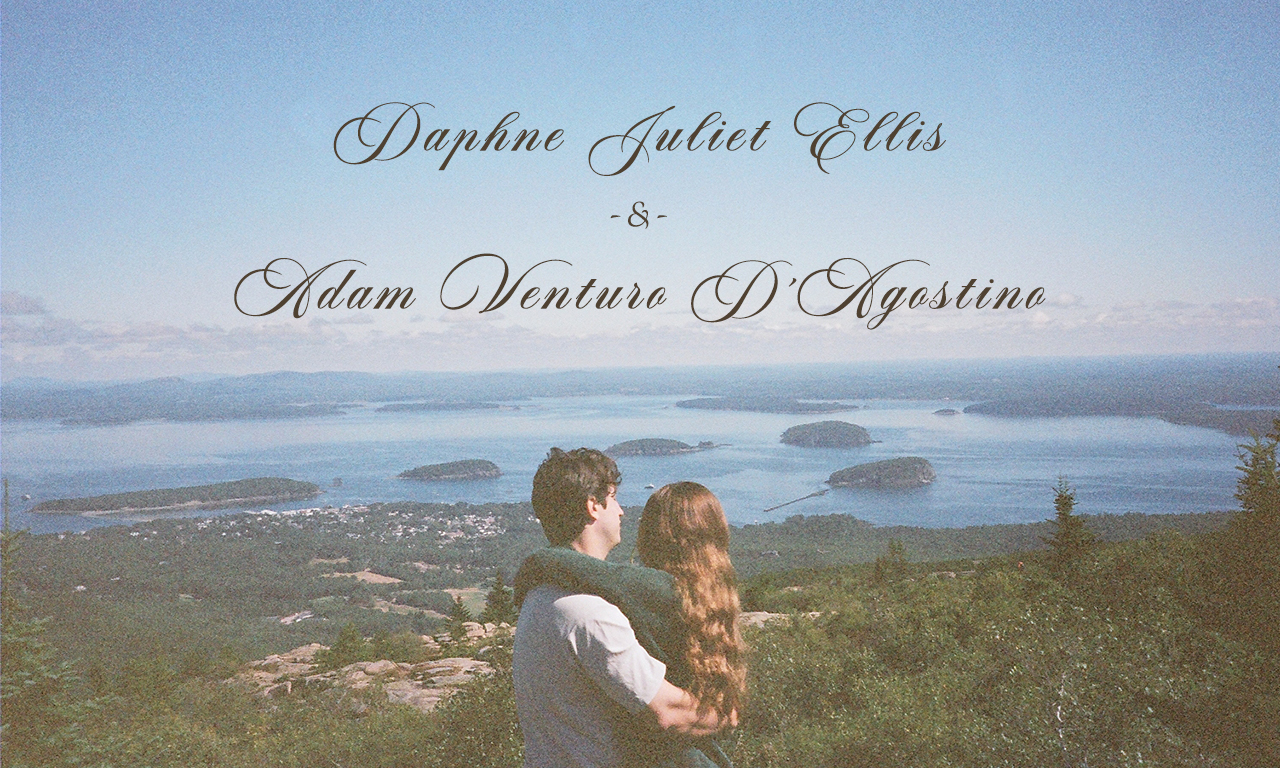
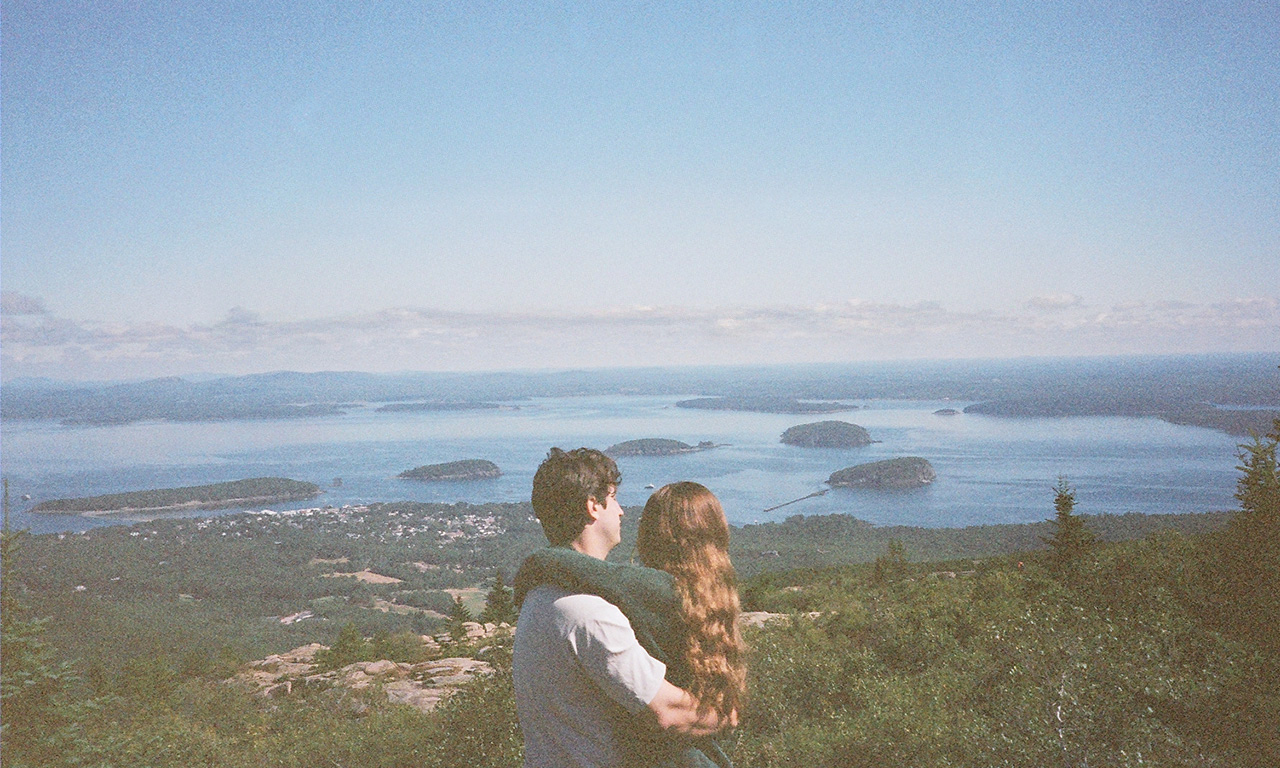
Replaced RSVP hero image with version that has no text

Changed region(s): [[0.1562, 0.3438, 0.8125, 0.4375], [0.4688, 0.125, 0.75, 0.2188], [0.25, 0.125, 0.4375, 0.2188]]

diff --git a/registry-image-config.js b/registry-image-config.js
@@ -7,4 +7,5 @@ const REGISTRY_IMAGE_CONFIG = {
     "6": { position: "48% 61%", scale: 2.00 },
     "7": { position: "50% 13%", scale: 1.35 },
     "8": { position: "52% 29%", scale: 1.25 },
+    "car-fund": { position: "51% 34%", scale: 1.15 },
 };
